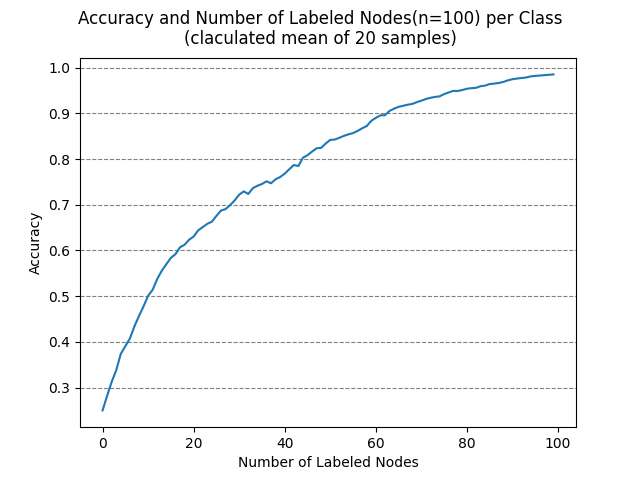
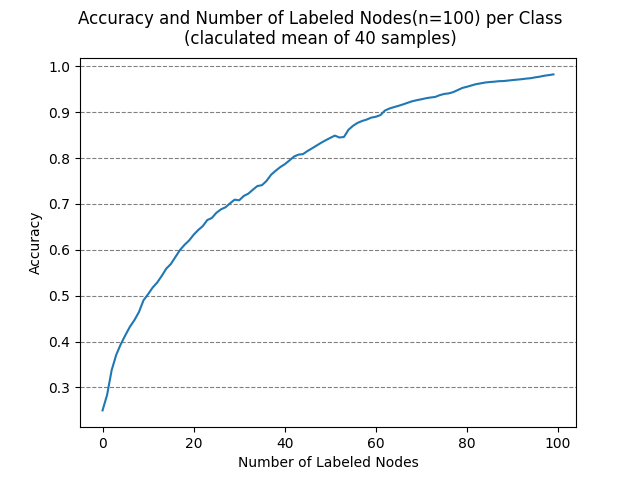
execute mean tasks

diff --git a/scalefree_graph/task2_1_b.py b/scalefree_graph/task2_1_b.py
@@ -1,7 +1,7 @@
 from torch_geometric.nn import GCNConv
 from torch_geometric.utils.convert import from_networkx
 import torch.nn.functional as F
-import sample
+import sample2
 import torch
 import matplotlib.pyplot as plt
 
@@ -30,22 +30,24 @@ class Net(torch.nn.Module):
     return x, y
 
 def main():
-  n = 50
+  n1 = 160
+  n2 = 40
   m = 2
   graph_num = 4
+  large_graph_num = 2
 
-  roop = 80
+  roop = 40
   acc_mean = {}
-  for i in range(n):
+  for i in range(n1):
     acc_mean[i] = []
   for r in range(roop):
-    a,_,c = sample.generate_sample(n, m, graph_num)
+    a,_,lc,sc = sample2.generate_umblance_sample(n1, n2, m, graph_num, large_graph_num)
     dataA = from_networkx(a)
 
     device = torch.device('cuda' if torch.cuda.is_available() else 'cpu')
-    model = Net(n).to(device)
+    model = Net(n1).to(device)
 
-    for cnt in range(n):
+    for cnt in range(n1):
       model.train()
       optimizer = torch.optim.Adam(model.parameters(), lr=0.01, weight_decay=5e-4)
 
@@ -53,35 +55,41 @@ def main():
       t = dataA.label
 
       samples = []
-      for i in range(cnt):
-        for j in c[i]:
+      for i in range((n1+n2)//2):
+        for j in lc[i]:
+          samples.append(j)
+
+      for i in range(cnt//(n1//n2)):
+        if i == n2:
+          break
+        for j in sc[i]:
           samples.append(j)
 
       for _ in range(epoch_num):
         optimizer.zero_grad()
-        _, out = model(dataA)
-        loss = F.nll_loss(out[samples], t[samples])
+        _, y = model(dataA)
+        loss = F.nll_loss(y[samples], t[samples])
         loss.backward()
         optimizer.step()
 
       model.eval()
-      _, out = model(dataA)
-      pred = out.max(dim=1)[1]
+      _, y = model(dataA)
+      pred = y.max(dim=1)[1]
       err = 0
       for i,p in enumerate(pred):
         if p != t[i]:
           err += 1
       acc_mean[cnt].append(1 - err/len(pred))
 
-    print(f'roop {r+1} done')
+    print(f"roop {r+1}/{roop} done")
 
   fig = plt.figure()
-  fig.suptitle(f'Accuracy and Number of Labeled Nodes(n={n}) per Class\n(claculated mean of {roop} samples)')
+  fig.suptitle(f'Accuracy and Number of Labeled Nodes(n1={n1}, n2={n2}) per Class\n(calculated mean of {roop} samples)')
   ax = fig.add_subplot(111)
-  ax.plot([i for i in range(n)], [sum(acc_mean[i])/len(acc_mean[i]) for i in range(n)])
-  ax.set_xlabel('Number of Labeled Nodes')
+  ax.plot([i for i in range(n1)], [sum(acc_mean[i])/len(acc_mean[i]) for i in range(n1)])
+  ax.set_xlabel(f'Number of Labeled Nodes per Large Class(small class is 1/{n1//n2})')
   ax.set_ylabel('Accuracy')
   ax.grid(axis='y', color='gray', linestyle='--')
-  fig.savefig(f'./scalefree_graph/task2_figures/task2_mean_n{n}.png')
+  fig.savefig(f'./scalefree_graph/task2_figures/task2_mean_l{n1}_s{n2}.png')
 
 main()

diff --git a/scalefree_graph/task2_1_a.py b/scalefree_graph/task2_1_a.py
@@ -1,7 +1,7 @@
 from torch_geometric.nn import GCNConv
 from torch_geometric.utils.convert import from_networkx
 import torch.nn.functional as F
-import sample
+import sample2
 import torch
 import matplotlib.pyplot as plt
 
@@ -30,22 +30,24 @@ class Net(torch.nn.Module):
     return x, y
 
 def main():
-  n = 50
+  n1 = 150
+  n2 = 50
   m = 2
   graph_num = 4
+  large_graph_num = 2
 
-  roop = 80
+  roop = 30
   acc_mean = {}
-  for i in range(n):
+  for i in range(n1):
     acc_mean[i] = []
   for r in range(roop):
-    a,_,c = sample.generate_sample(n, m, graph_num)
+    a,_,lc,sc = sample2.generate_umblance_sample(n1, n2, m, graph_num, large_graph_num)
     dataA = from_networkx(a)
 
     device = torch.device('cuda' if torch.cuda.is_available() else 'cpu')
-    model = Net(n).to(device)
+    model = Net(n1).to(device)
 
-    for cnt in range(n):
+    for cnt in range(n1):
       model.train()
       optimizer = torch.optim.Adam(model.parameters(), lr=0.01, weight_decay=5e-4)
 
@@ -54,34 +56,40 @@ def main():
 
       samples = []
       for i in range(cnt):
-        for j in c[i]:
+        for j in lc[i]:
+          samples.append(j)
+
+      for i in range(cnt//(n1//n2)):
+        if i == n2:
+          break
+        for j in sc[i]:
           samples.append(j)
 
       for _ in range(epoch_num):
         optimizer.zero_grad()
-        _, out = model(dataA)
-        loss = F.nll_loss(out[samples], t[samples])
+        _, y = model(dataA)
+        loss = F.nll_loss(y[samples], t[samples])
         loss.backward()
         optimizer.step()
 
       model.eval()
-      _, out = model(dataA)
-      pred = out.max(dim=1)[1]
+      _, y = model(dataA)
+      pred = y.max(dim=1)[1]
       err = 0
       for i,p in enumerate(pred):
         if p != t[i]:
           err += 1
       acc_mean[cnt].append(1 - err/len(pred))
 
-    print(f'roop {r+1} done')
+    print(f"roop {r+1}/{roop} done")
 
   fig = plt.figure()
-  fig.suptitle(f'Accuracy and Number of Labeled Nodes(n={n}) per Class\n(claculated mean of {roop} samples)')
+  fig.suptitle(f'Accuracy and Number of Labeled Nodes(n1={n1}, n2={n2}) per Class\n(calculated mean of {roop} samples)')
   ax = fig.add_subplot(111)
-  ax.plot([i for i in range(n)], [sum(acc_mean[i])/len(acc_mean[i]) for i in range(n)])
-  ax.set_xlabel('Number of Labeled Nodes')
+  ax.plot([i for i in range(n1)], [sum(acc_mean[i])/len(acc_mean[i]) for i in range(n1)])
+  ax.set_xlabel(f'Number of Labeled Nodes per Large Class(small class is 1/{n1//n2})')
   ax.set_ylabel('Accuracy')
   ax.grid(axis='y', color='gray', linestyle='--')
-  fig.savefig(f'./scalefree_graph/task2_figures/task2_mean_n{n}.png')
+  fig.savefig(f'./scalefree_graph/task2_figures/task2_mean_l{n1}_s{n2}.png')
 
 main()

diff --git a/scalefree_graph/task2_3d_a.py b/scalefree_graph/task2_3d_a.py
@@ -9,8 +9,8 @@ class Net(torch.nn.Module):
   def __init__(self, n):
     super(Net, self).__init__()
     hidden_layer1 = 32
-    hidden_layer2 = 4
-    output_layer = 2
+    hidden_layer2 = 8
+    output_layer = 3
     self.conv1 = GCNConv(n, hidden_layer1)
     self.conv2 = GCNConv(hidden_layer1, hidden_layer2)
     self.conv3 = GCNConv(hidden_layer2, output_layer)
@@ -30,14 +30,14 @@ class Net(torch.nn.Module):
     return x, y
 
 def main():
-  n = 50
+  n = 100
   m = 2
-  graph_num = 4
+  graph_num = 8
 
-  roop = 80
-  acc_mean = {}
+  roop = 40
+  acc_list = {}
   for i in range(n):
-    acc_mean[i] = []
+    acc_list[i] = []
   for r in range(roop):
     a,_,c = sample.generate_sample(n, m, graph_num)
     dataA = from_networkx(a)
@@ -59,29 +59,27 @@ def main():
 
       for _ in range(epoch_num):
         optimizer.zero_grad()
-        _, out = model(dataA)
-        loss = F.nll_loss(out[samples], t[samples])
+        output = model(dataA)[1]
+        loss = F.nll_loss(output[samples], t[samples])
         loss.backward()
         optimizer.step()
 
       model.eval()
-      _, out = model(dataA)
-      pred = out.max(dim=1)[1]
-      err = 0
-      for i,p in enumerate(pred):
-        if p != t[i]:
-          err += 1
-      acc_mean[cnt].append(1 - err/len(pred))
+      _, output = model(dataA)
+      pred = output.max(dim=1)[1]
+      acc = pred.eq(t).sum().item() / t.size(0)
+      acc_list[cnt].append(acc)
+      # print(f"roop: {r+1}/{roop}, cnt: {cnt}, acc: {acc}")
 
-    print(f'roop {r+1} done')
+    print(f"roop: {r+1}/{roop} finished")
 
   fig = plt.figure()
-  fig.suptitle(f'Accuracy and Number of Labeled Nodes(n={n}) per Class\n(claculated mean of {roop} samples)')
+  fig.suptitle(f'Accuracy and Number of Labeled Nodes(n={n}, c={graph_num})\n(calculate mean of {roop} samples)')
   ax = fig.add_subplot(111)
-  ax.plot([i for i in range(n)], [sum(acc_mean[i])/len(acc_mean[i]) for i in range(n)])
+  ax.plot(list(acc_list.keys()), [sum(acc_list[i])/len(acc_list[i]) for i in acc_list.keys()])
   ax.set_xlabel('Number of Labeled Nodes')
   ax.set_ylabel('Accuracy')
-  ax.grid(axis='y', color='gray', linestyle='--')
-  fig.savefig(f'./scalefree_graph/task2_figures/task2_mean_n{n}.png')
+  ax.grid(axis='y', color='gray', linestyle='dashed')
+  fig.savefig(f'./scalefree_graph/task2_figures/task2_3d_mean_n{n}.png')
 
 main()
